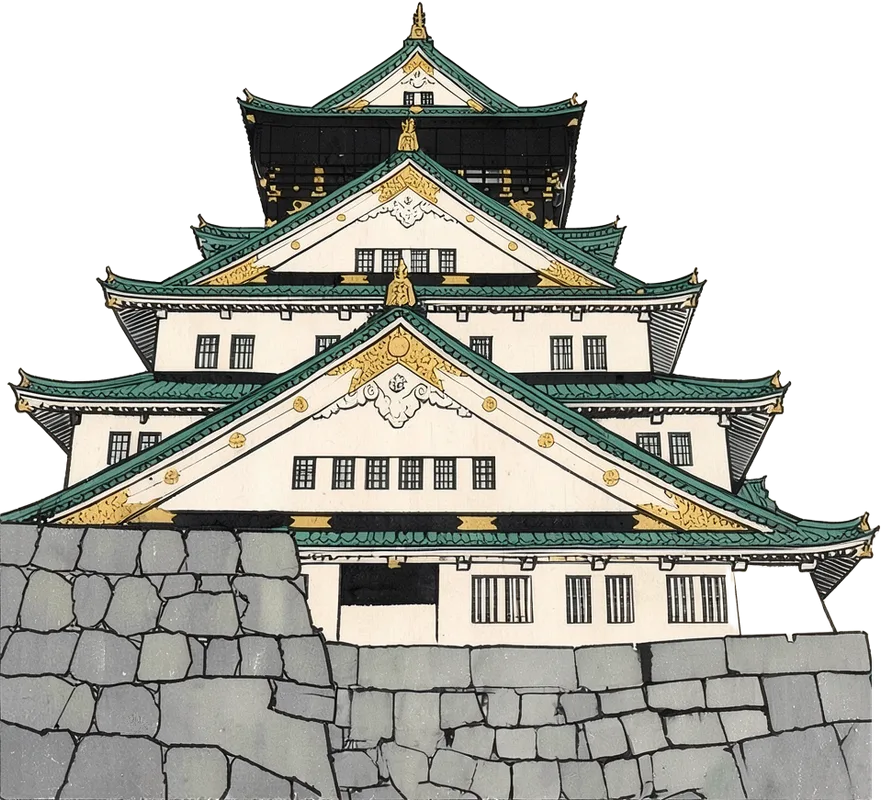
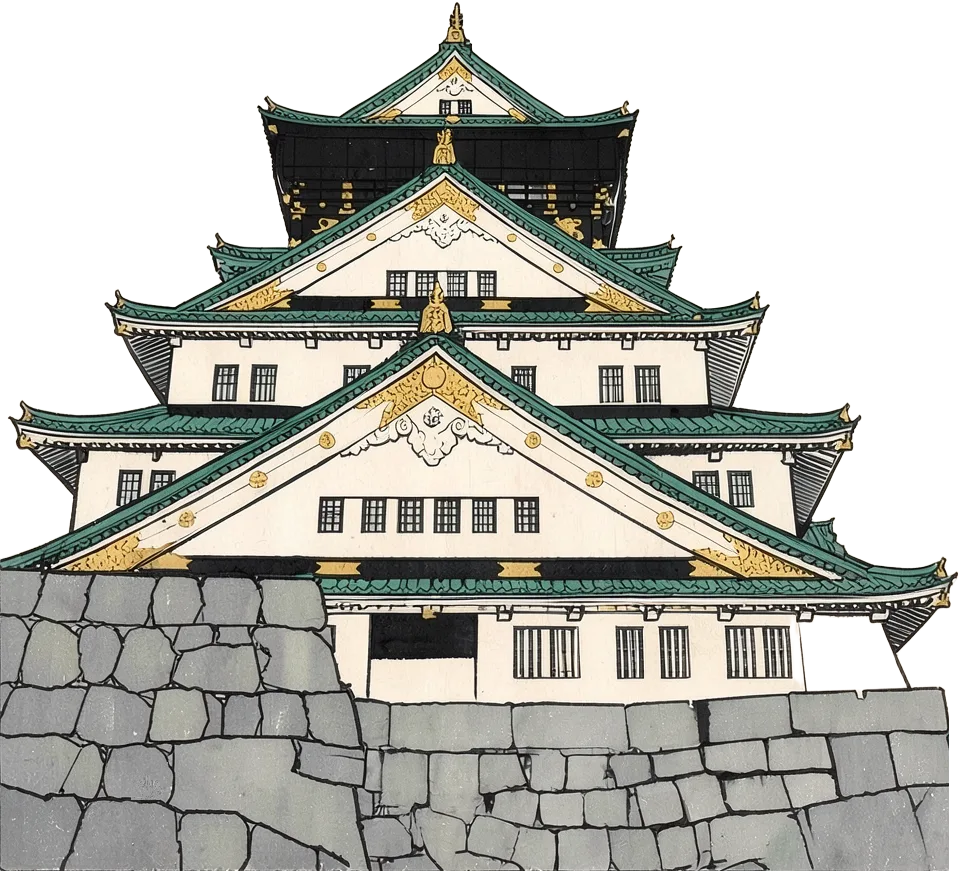
feat: 天守閣放大成序幕背景，布條掛在前面
- 方向：Viking 認為原本的天守插圖太小氣，改成放大的背景
- 改動：天守閣改為序幕的絕對定位背景（桌機 620px、手機 440px），站在石垣上、布條疊在前面，介紹區移到右側；改用 960×871 原尺寸 WebP 避免放大模糊；閱讀模式仍維持整欄寬插圖；README 更正電腦為 Mac mini M6
- 狀態：完成；build、桌機淺色／深色、手機 400（無橫向溢出）、閱讀模式已驗證

Claude-Session: https://claude.ai/code/session_015antUT3pvbGeZXSd5LyDyL

diff --git a/src/styles/wall.css b/src/styles/wall.css
@@ -15,7 +15,7 @@ img{max-width:100%}
   --f-body:"Noto Sans TC","PingFang TC","Microsoft JhengHei",system-ui,sans-serif;
   --f-mono:"IBM Plex Mono",ui-monospace,Menlo,Consolas,monospace;
   --colw:240px; --step:34px;
-  --dado:150px; --dado-filter:none; --castle-h:340px;
+  --dado:150px; --dado-filter:none; --castle-h:620px; --castle-x:40px;
 }
 @media (prefers-color-scheme: dark){
   :root:not([data-theme="light"]){
@@ -70,9 +70,11 @@ button{font:inherit;color:inherit}
 .intro h1 .art-title.h{height:4.2rem;margin-left:-6px}
 .sr{position:absolute;width:1px;height:1px;overflow:hidden;clip:rect(0 0 0 0);white-space:nowrap}
 
-/* 序幕的天守插圖：站在石垣上 */
-.prelude{align-self:stretch}
-.castle{flex:none;align-self:flex-end;height:var(--castle-h);width:auto;margin-bottom:-24px;margin-inline:-8px 4px}
+/* 序幕的天守閣：放大當背景，站在石垣上；布條掛在前面，介紹文字排在它右側 */
+.prelude{align-self:stretch;position:relative}
+.prelude > :not(.castle){position:relative;z-index:1}
+.castle{position:absolute;left:var(--castle-x);bottom:-24px;height:var(--castle-h);width:auto;z-index:0;pointer-events:none}
+.prelude:has(.castle) .intro{margin-left:calc(var(--castle-h) * 960 / 871 + var(--castle-x) - 360px)}
 
 /* prelude */
 .prelude{display:flex;align-items:flex-start;gap:26px;padding-top:52px;margin-right:56px;flex:none}
@@ -201,10 +203,11 @@ button{font:inherit;color:inherit}
 .read .bay{width:min(100%,340px);height:auto}
 .read .finale{padding-top:36px;width:auto}
 .read .prelude{align-self:auto}
-.read .castle{height:auto;width:min(100%,360px);margin:0}
+.read .castle{position:static;height:auto;width:min(100%,420px);margin:0}
+.read .prelude:has(.castle) .intro{margin-left:0}
 
 @media (max-width:760px){
-  :root{--colw:200px;--step:26px;--dado:96px;--castle-h:230px}
+  :root{--colw:200px;--step:26px;--dado:96px;--castle-h:440px;--castle-x:20px}
   .banner:has(.art-title.v){width:104px}
   .art-title.v{height:240px}
   .bar .t small{display:none}

diff --git a/README.md b/README.md
@@ -30,7 +30,7 @@ npm run dev                 # http://localhost:4321
 - 不要迎合；推論有問題要直接指出。
 - 有多種做法時，列出優缺點與適用情境。
 - 重視流程、邏輯與證據。發現更好的方法可以主動提出，但要說明理由。
-- 使用者熟悉 Claude Code 與命令列；電腦為 **macOS（Apple Silicon，MacBook Air）**，專案資料夾慣例放在 `~/Workspace/`［推論：家目錄下有 Workspace 資料夾，未經確認］。
+- 使用者熟悉 Claude Code 與命令列；電腦為 **macOS（Mac mini，Apple M6，32GB，有風扇）**［事實：Viking 2026-10-14 更正］，專案資料夾慣例放在 `~/Workspace/`［推論：家目錄下有 Workspace 資料夾，未經確認］。
 
 ---
 
@@ -91,7 +91,7 @@ npm run dev                 # http://localhost:4321
 
 - **網站標題改為「大阪行」**［事實：Viking 決定，整站標題］。標題文字改用書法圖：參考日本清酒商標的狂放筆勢，`public/art/osaka-title-v.svg`（直書，紅布條）與 `osaka-title-h.svg`（橫書，頂端列與介紹區）。SVG 以 CSS `mask` 上色，墨色跟著淺色／深色模式；`h1` 保留隱藏文字給螢幕閱讀器。
 - **牆腳石垣**：`public/art/ishigaki.webp`，左右無縫重複，鋪在牆面最下方 `--dado`（桌機 150px、手機 96px）；內容區往上讓出同樣高度，石垣不壓到展品。深色模式以 `--dado-filter` 壓暗。
-- **序幕天守閣**：`public/art/castle.webp`（透明背景），放在布條旁邊，底部站在石垣上。
+- **序幕天守閣**：`public/art/castle.webp`（透明背景，960×871），放大當序幕背景（桌機 620px 高、手機 440px），底部站在石垣上；紅布條與照片布條掛在它前面，介紹文字排在右側［事實：Viking 要求「放大當背景，被布條擋住也沒關係」］。
 - 風格為浮世繪木版畫。來源：Viking 拍的大阪城石垣與天守照片當結構參考，本機以 FLUX.2 Klein 4B（mflux）風格化；**這些是裝飾，不是展品**，不列入展品編號。
 - 素材路徑都在 `trip.yaml` 的 `art` 區塊，拿掉任一項就回到原本的文字或素牆。
 
